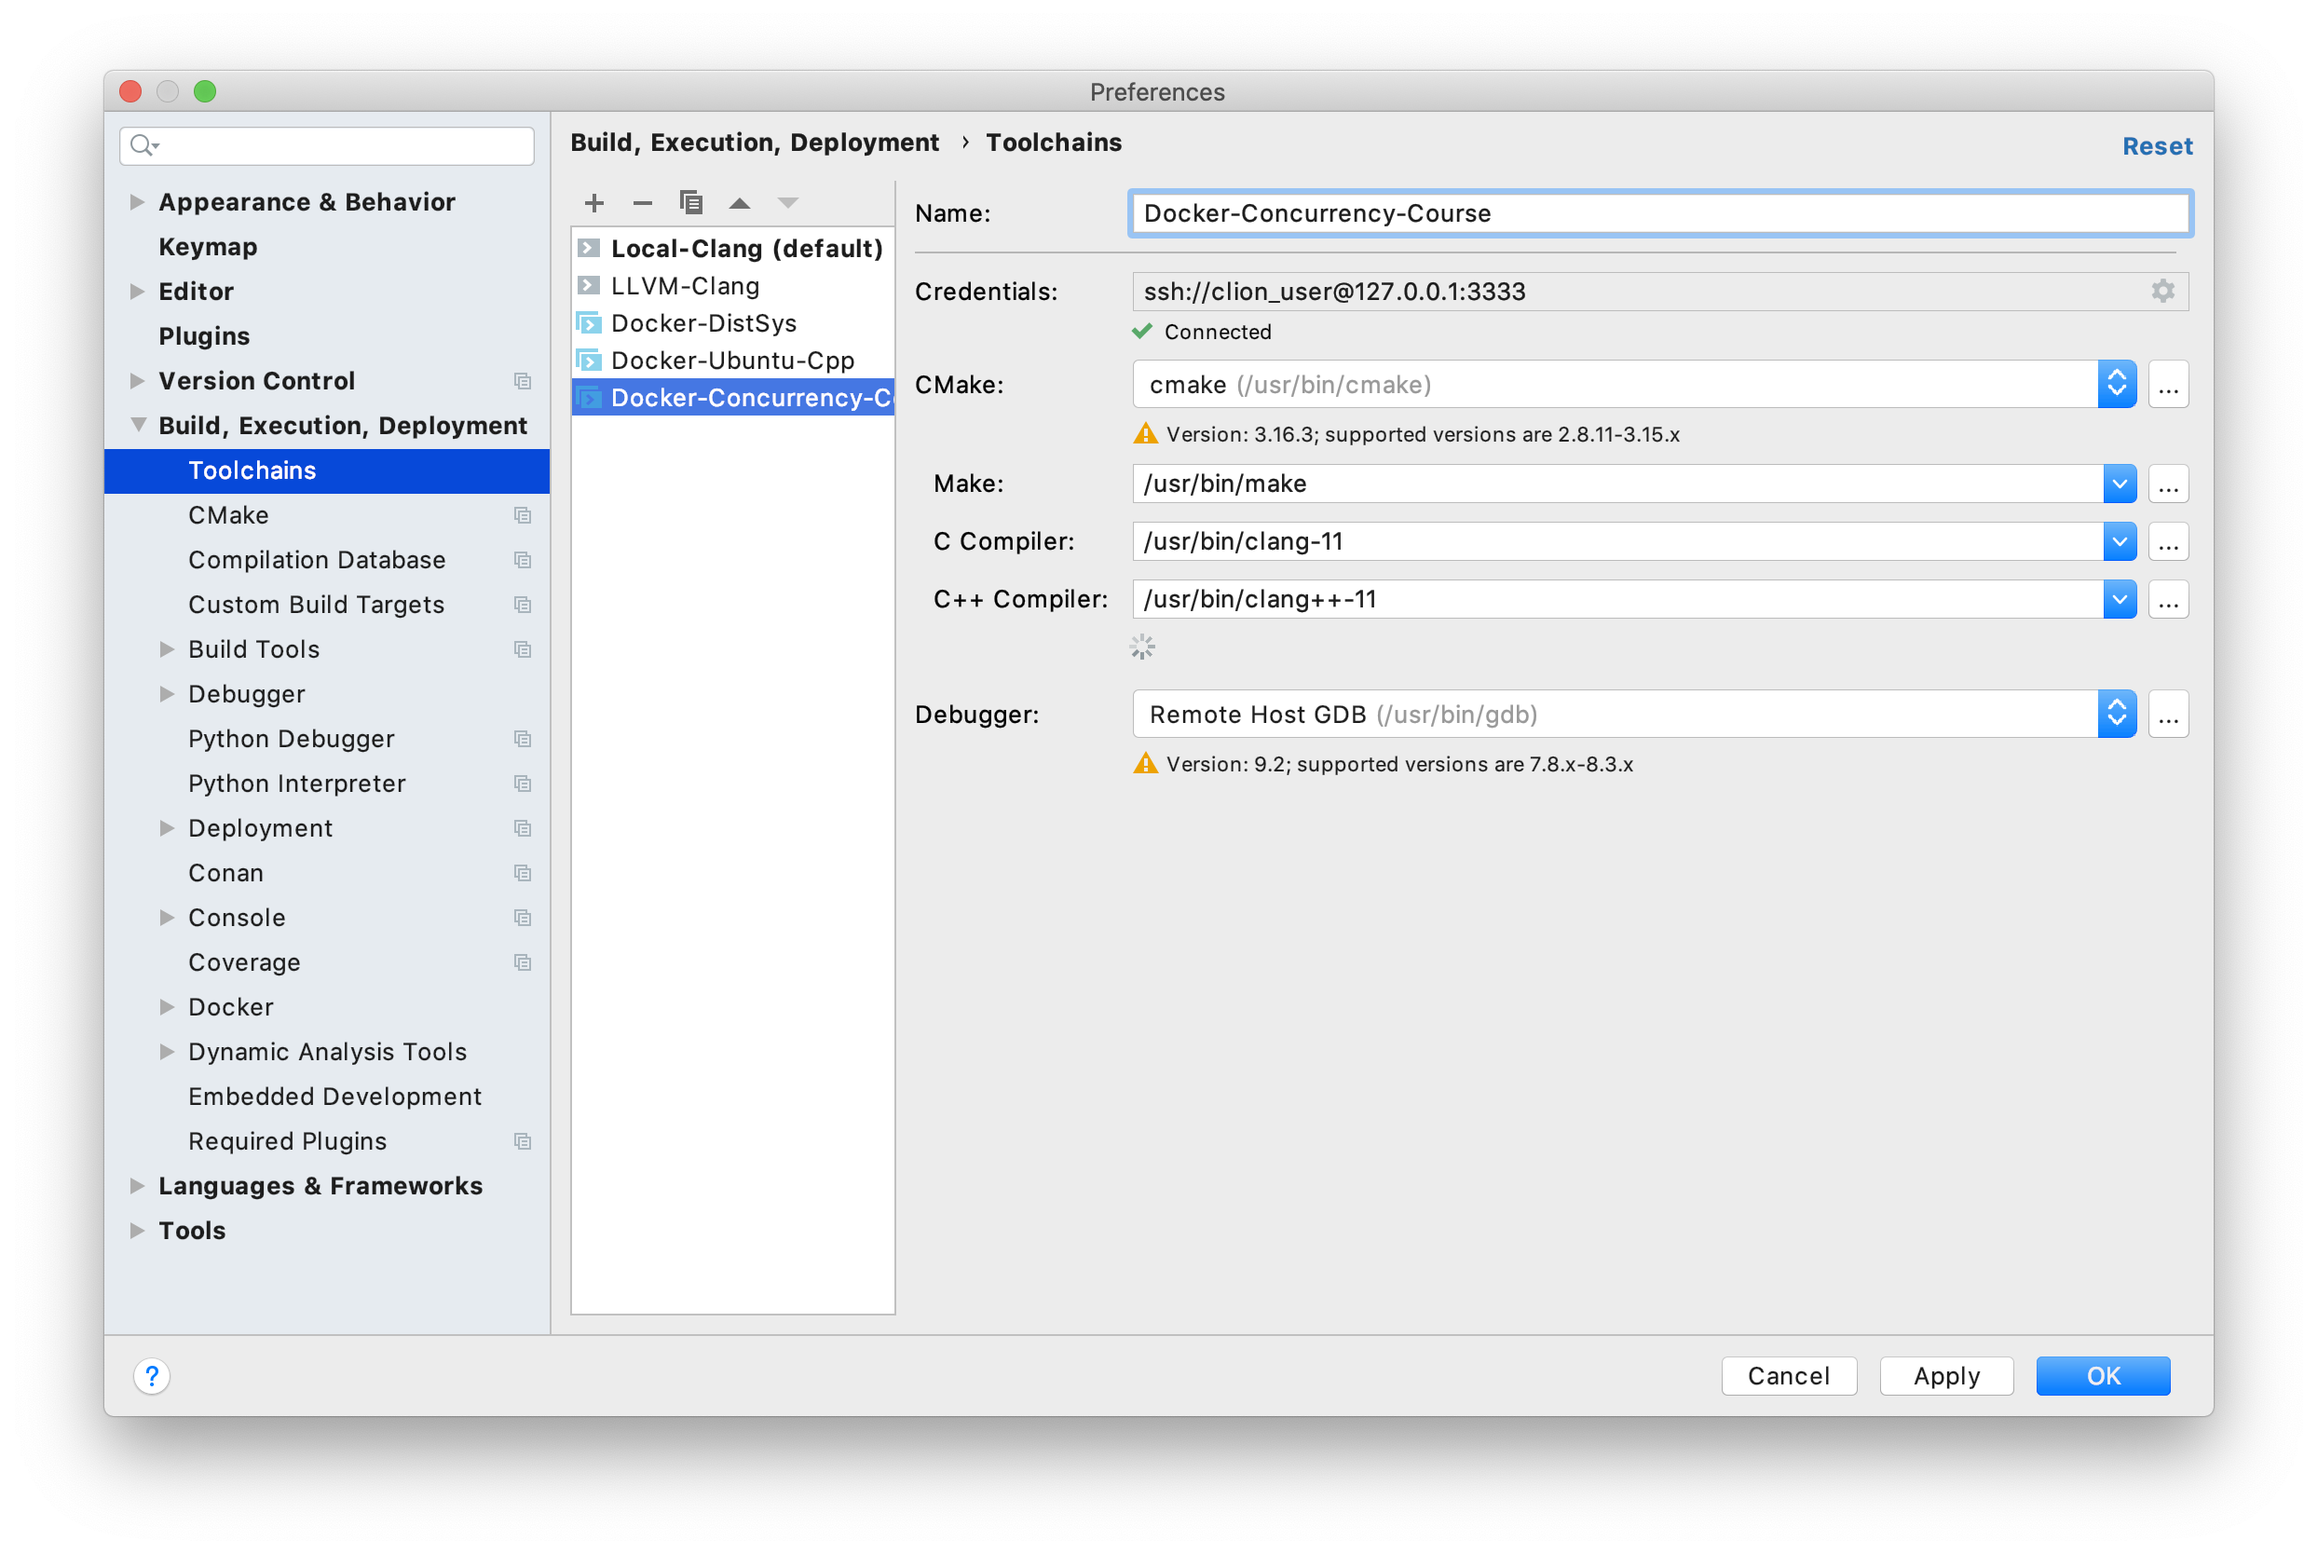
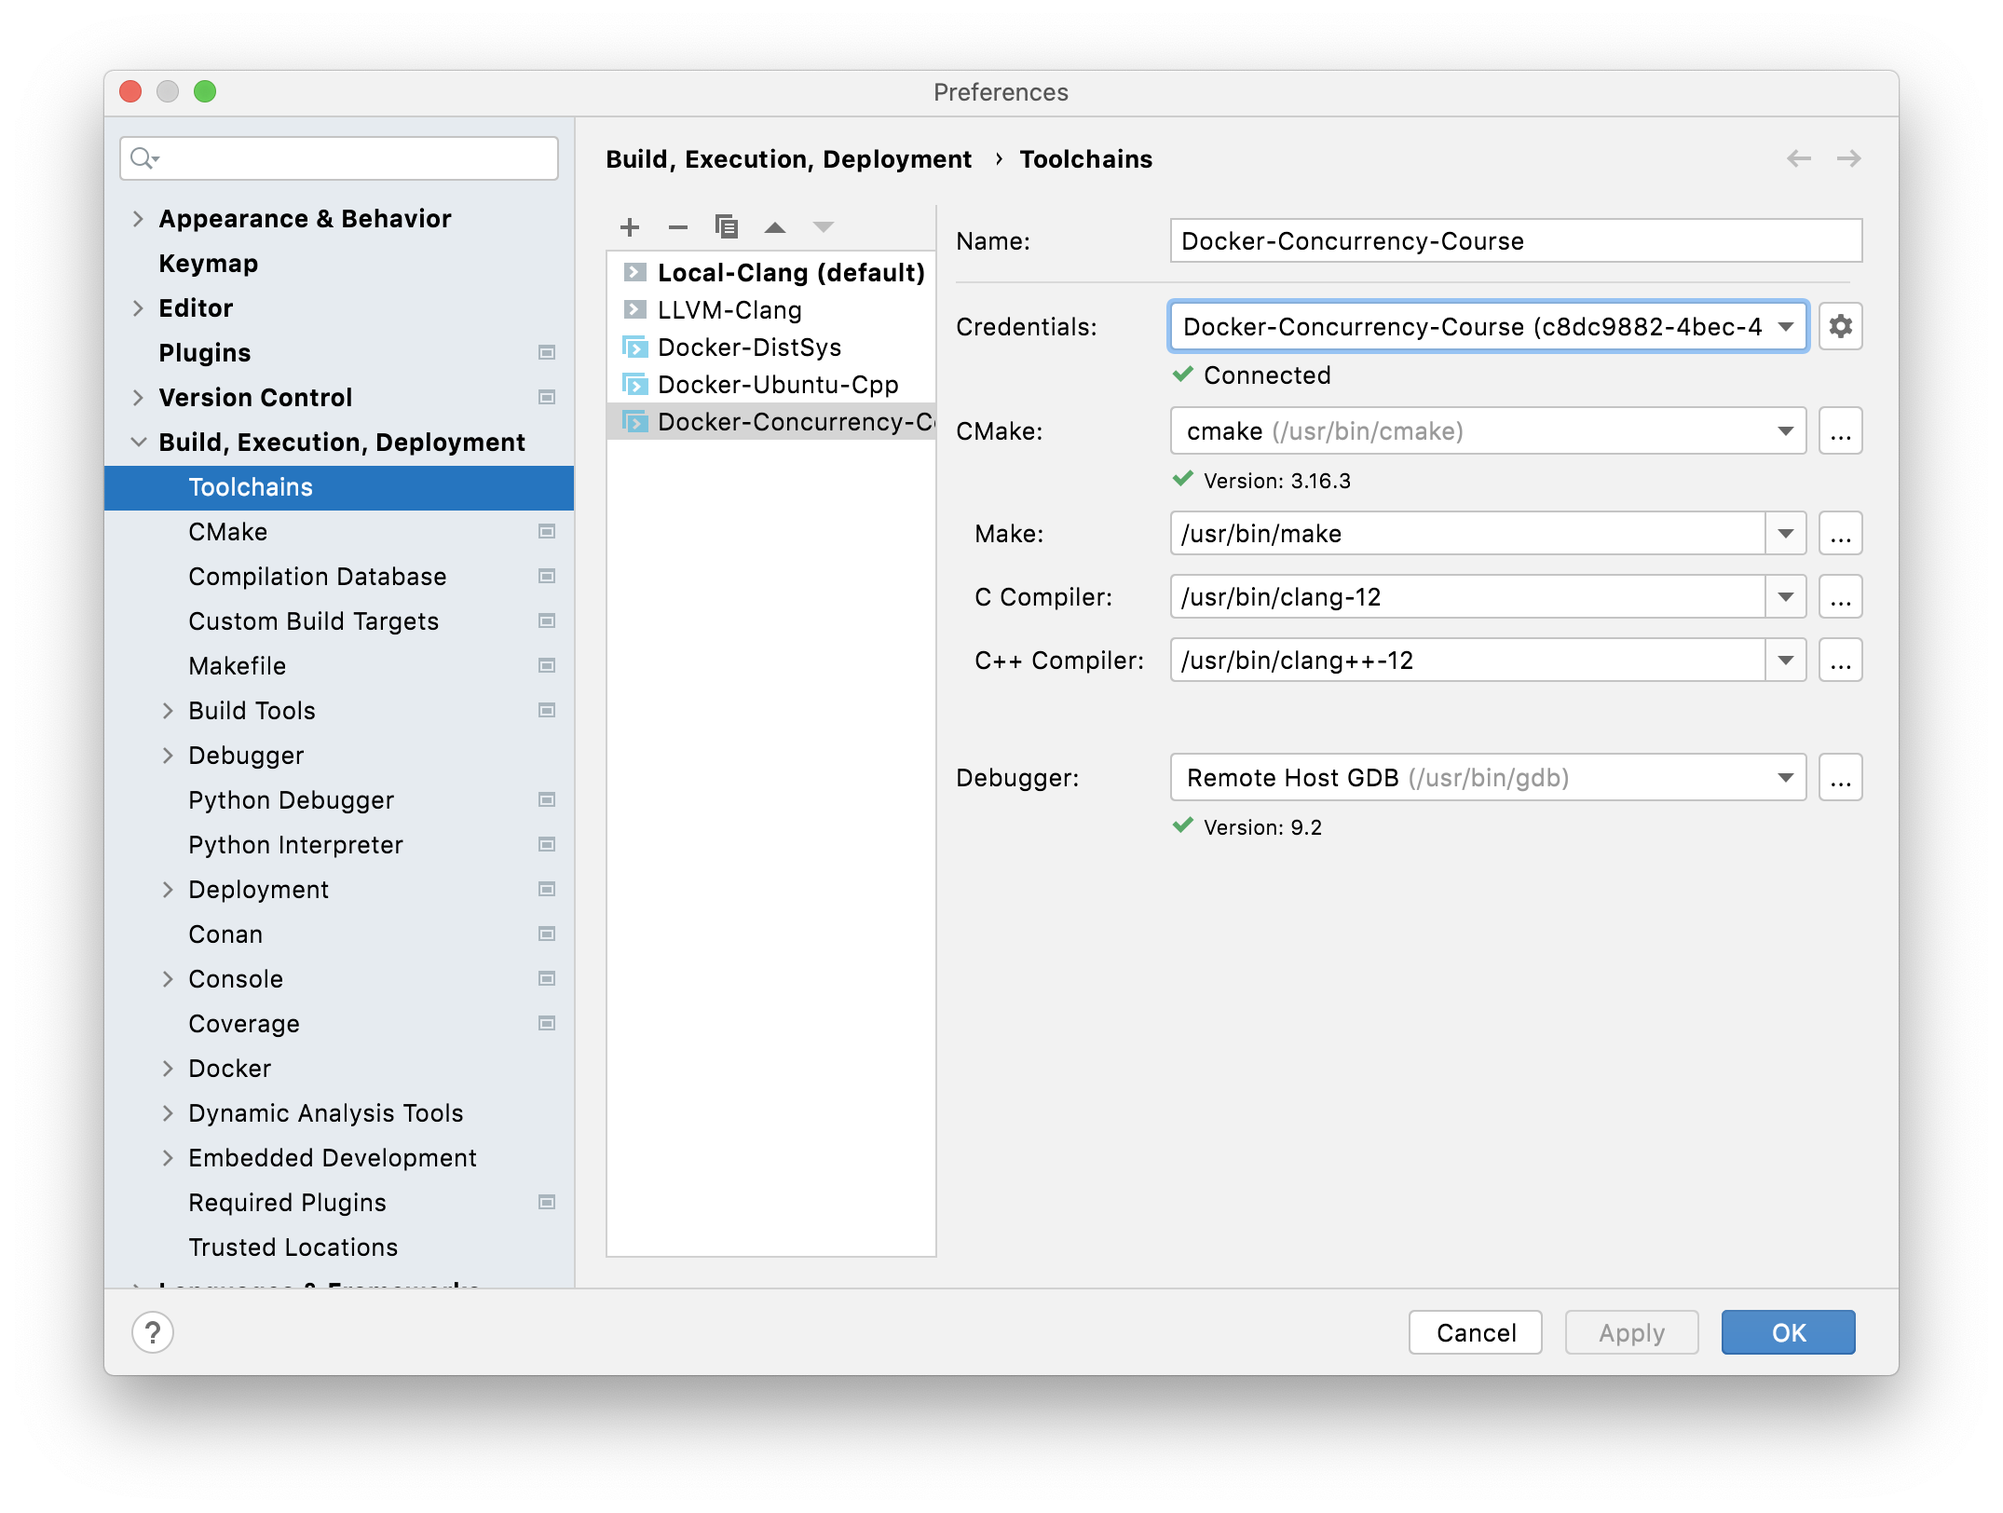
update docs

Changed region(s): [[0.0312, 0.0308, 0.966, 0.9236], [0.4674, 0.431, 0.7791, 0.5542], [0.4051, 0.431, 0.4363, 0.4926]]

diff --git a/docs/clion.md b/docs/clion.md
@@ -38,8 +38,8 @@
 | Поле | Значение |
 |---|---|
 | _Make_ | `/usr/bin/make` |
-| _C Compiler_ | `/usr/bin/clang-13`
-| _C++ Compiler_ | `/usr/bin/clang++-13` |
+| _C Compiler_ | `/usr/bin/clang-12`
+| _C++ Compiler_ | `/usr/bin/clang++-12` |
 
 Проверьте, что в поле `Make` вы написали путь именно к `make`, а не к `cmake`.
 
